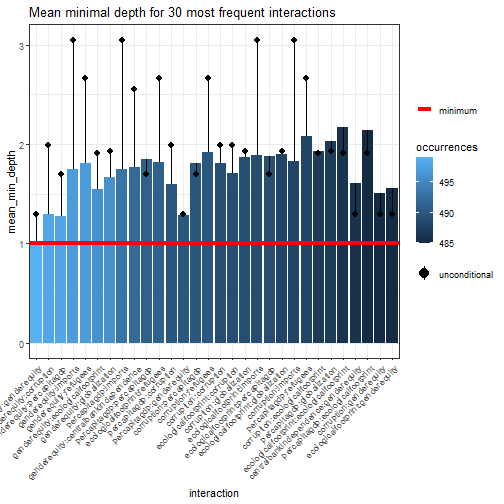
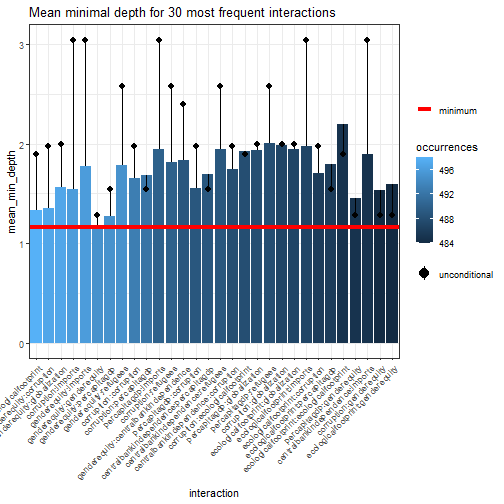
better machine learning

diff --git a/Slides/MachineLearning.html b/Slides/MachineLearning.html
@@ -50,11 +50,11 @@ pre[class] {
 
 By the end of this session, you should be able to:
 
-1. Explain why assuming linearity limits what we can learn from data, and describe how LOESS addresses this
+1. Explain why assuming linearity limits what we can learn from data, and how LOESS helps
 2. Describe how CART builds a decision tree through recursive binary splits
-3. Interpret a CART tree: identify the root split, trace paths to terminal nodes, and read predicted values
-4. Explain how random forests improve on a single CART tree through bagging and variable randomization
-5. Interpret a minimum depth distribution plot to identify the most important predictors in a random forest
+3. Interpret a CART tree
+4. Explain how random forests improve on a single CART tree
+5. Interpret a minimum depth distribution plot
 
 ---
 ### A (Quick) Historical Journey
@@ -76,7 +76,7 @@ democplot.1 &lt;- ggplot(qogsmall, aes(x=year, y=democracy)) +
 democplot.1
 ```
 
-&lt;img src="MachineLearning_files/figure-html/unnamed-chunk-3-1.png" alt="Scatterplot of year (x-axis) vs democracy score (y-axis) from the Quality of Government dataset. Individual country-years are plotted as points. A red linear regression line with a green 95% confidence band shows a slight upward trend in democracy over time, but considerable scatter around the line." width="90%" style="display: block; margin: auto;" /&gt;
+&lt;img src="MachineLearning_files/figure-html/unnamed-chunk-3-1.png" alt="Scatterplot of year (x-axis) vs democracy score (y-axis) from the Quality of Government dataset. Individual country-years are plotted as points. A red linear regression line with a green 95% confidence band shows a slight upward trend in democracy over time, but considerable scatter around the line." width="80%" style="display: block; margin: auto;" /&gt;
 
 ---
 
@@ -96,7 +96,7 @@ democplot.2 &lt;- ggplot(qogsmall, aes(x=year, y=democracy)) +
 democplot.2
 ```
 
-&lt;img src="MachineLearning_files/figure-html/unnamed-chunk-5-1.png" alt="Same scatterplot of year vs democracy score, but now with a LOESS (locally estimated scatterplot smoothing) curve in red and a green 95% confidence band. Unlike the linear model, the flexible curve can reveal non-linear patterns — showing how democracy levels rise and fall at different rates across different time periods." width="90%" style="display: block; margin: auto;" /&gt;
+&lt;img src="MachineLearning_files/figure-html/unnamed-chunk-5-1.png" alt="Same scatterplot of year vs democracy score, but now with a LOESS (locally estimated scatterplot smoothing) curve in red and a green 95% confidence band. Unlike the linear model, the flexible curve can reveal non-linear patterns — showing how democracy levels rise and fall at different rates across different time periods." width="80%" style="display: block; margin: auto;" /&gt;
 
 ---
 
@@ -133,7 +133,7 @@ Homogeneity in this context means that cases in a node are as similar as possibl
 ---
 ### An Example
 
-&lt;embed src="images/experimentcart.pdf" title="A CART decision tree with five terminal nodes. Root split: radionews &amp;lt; 4.5. Right branch (high radio news exposure) predicts outcome = 1. Left branch splits on intefficacy &amp;lt; 2.5 — higher internal political efficacy (≥ 2.5) predicts 0.59. Lower efficacy branch splits on simpletreat &amp;lt; 0.5 (untreated cases split by edlevel &amp;lt; 7.5: terminal nodes 0.29 and 0.58; treated cases split by edlevel ≥ 7.5: terminal nodes 0.28 and 0.76). Higher education among treated respondents produces the highest predicted outcome." width="90%" style="display: block; margin: auto;" type="application/pdf" /&gt;
+&lt;img src="images/experimentcart.png" alt="A CART decision tree with five terminal nodes. Root split: radionews &amp;lt; 4.5. Right branch (high radio news exposure) predicts outcome = 1. Left branch splits on intefficacy &amp;lt; 2.5 — higher internal political efficacy (≥ 2.5) predicts 0.59. Lower efficacy branch splits on simpletreat &amp;lt; 0.5 (untreated cases split by edlevel &amp;lt; 7.5: terminal nodes 0.29 and 0.58; treated cases split by edlevel ≥ 7.5: terminal nodes 0.28 and 0.76). Higher education among treated respondents produces the highest predicted outcome." width="90%" style="display: block; margin: auto;" /&gt;
 
 ---
 
@@ -186,7 +186,7 @@ dem.rf
 ##                      Number of trees: 500
 ## No. of variables tried at each split: 2
 ## 
-##           Mean of squared residuals: 0.001364186
+##           Mean of squared residuals: 0.00136879
 ##                     % Var explained: 98.33
 ```
 
@@ -203,7 +203,7 @@ dem.mindepth &lt;- min_depth_distribution(dem.rf)
 plot_min_depth_distribution(dem.mindepth)
 ```
 
-&lt;img src="MachineLearning_files/figure-html/unnamed-chunk-13-1.png" alt="Minimum depth distribution plot from the random forest. Each bar represents a predictor variable; bar length reflects mean minimal depth across trees (shorter = more important, appears closer to the root more often). Corruption and per capita GDP have the smallest mean minimal depths, identifying them as the strongest predictors of democracy in this model." width="90%" style="display: block; margin: auto;" /&gt;
+&lt;img src="MachineLearning_files/figure-html/unnamed-chunk-13-1.png" alt="Minimum depth distribution plot from the random forest. Each bar represents a predictor variable; bar length reflects mean minimal depth across trees (shorter = more important, appears closer to the root more often). Corruption and per capita GDP have the smallest mean minimal depths, identifying them as the strongest predictors of democracy in this model." width="70%" style="display: block; margin: auto;" /&gt;
 
 
 ---
@@ -227,7 +227,7 @@ plot_min_depth_interactions(dem.rf)
 ## [1] "Warning: your forest does not contain information on local importance so 'mse_increase' measure cannot be extracted. To add it regrow the forest with the option localImp = TRUE and run this function again."
 ```
 
-&lt;img src="MachineLearning_files/figure-html/unnamed-chunk-15-1.png" alt="Minimum depth interaction plot from the random forest. Each cell shows how frequently a pair of predictor variables co-occurs in the same branches across trees, measured by their mean minimal depth of interaction. Pairs with lower mean interaction depth (darker cells) interact more strongly. Corruption and per capita GDP are likely among the most prominent interacting pairs." width="90%" style="display: block; margin: auto;" /&gt;
+&lt;img src="MachineLearning_files/figure-html/unnamed-chunk-15-1.png" alt="Minimum depth interaction plot from the random forest. Each cell shows how frequently a pair of predictor variables co-occurs in the same branches across trees, measured by their mean minimal depth of interaction. Pairs with lower mean interaction depth (darker cells) interact more strongly. Corruption and per capita GDP are likely among the most prominent interacting pairs." width="70%" style="display: block; margin: auto;" /&gt;
 
 ---
 
